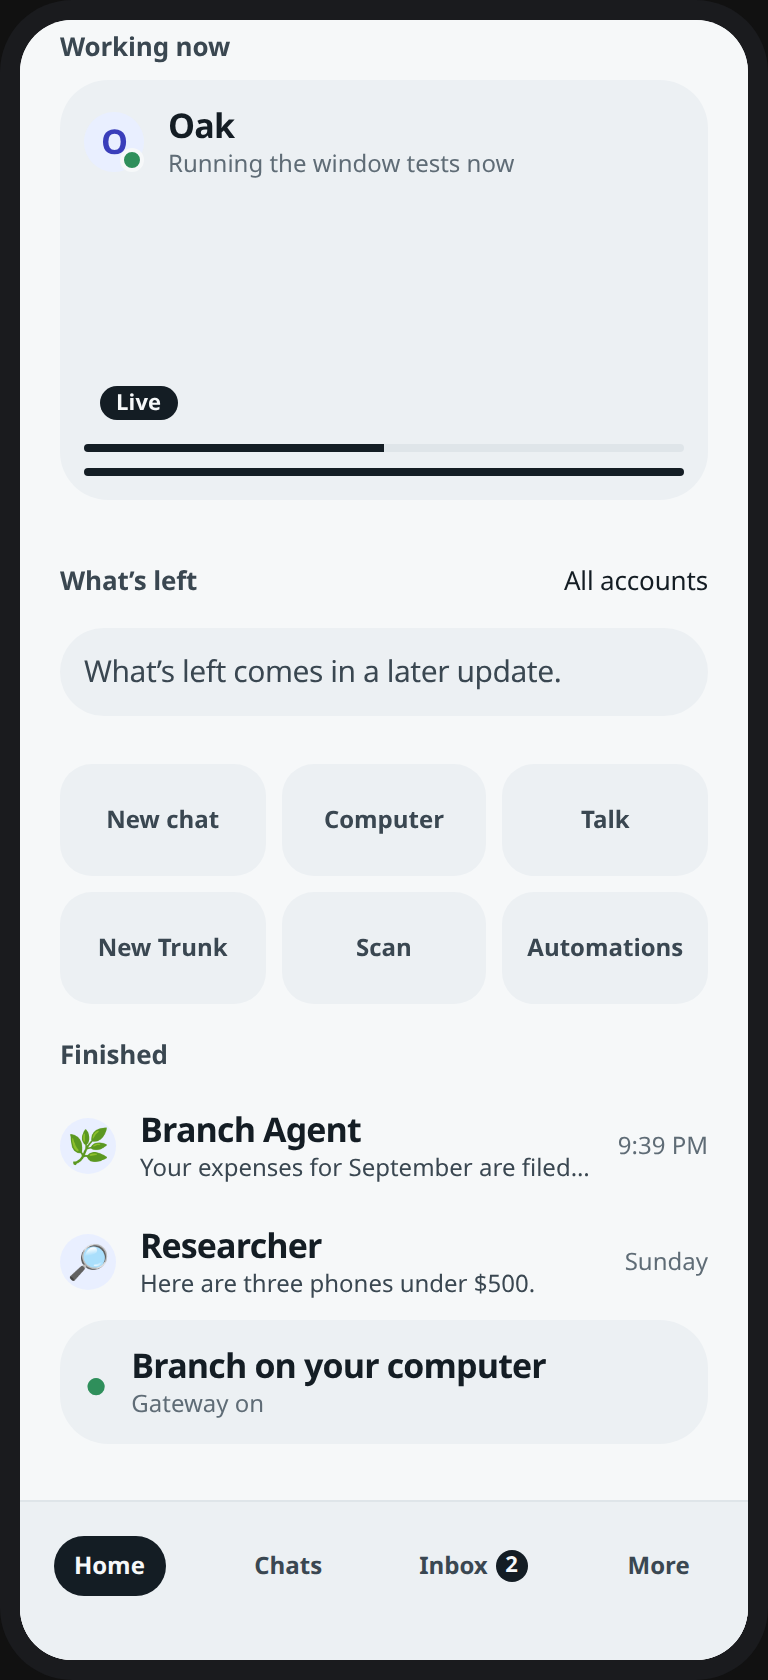
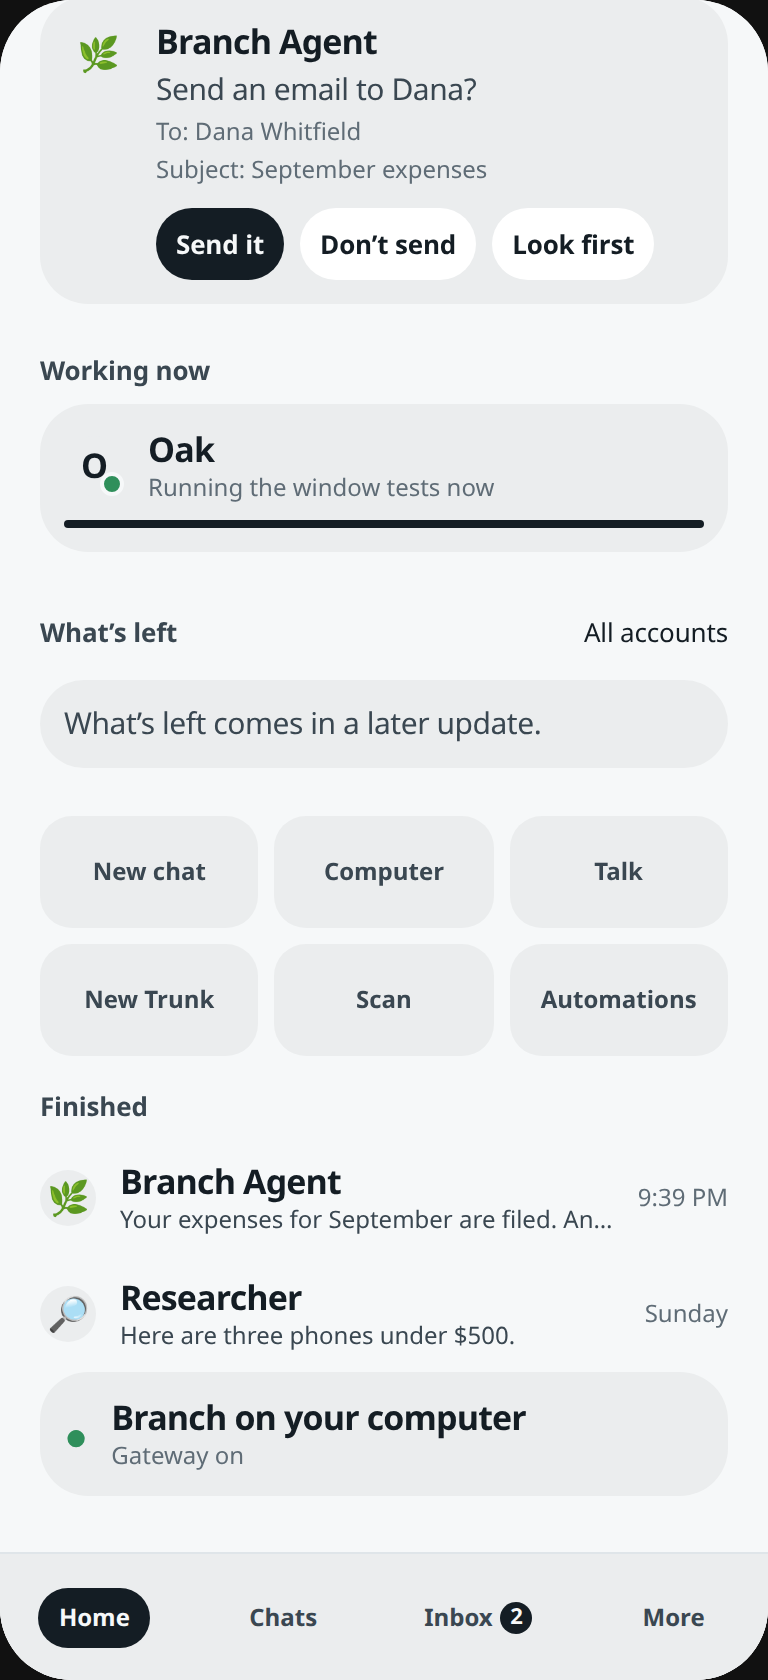
fix(mobile): show the command before Allow on Home
Gardener FIX at 87974d3d: Needs you cards show the masked command,
folder, computer and warnings before Allow; hide Allow when the
command is missing; surface Allow/Deny failures; drop the fake Live
box and 50% meter; New chat opens the main conversation.

diff --git a/mobile/src/screens/HomeScreen.tsx b/mobile/src/screens/HomeScreen.tsx
@@ -1,10 +1,11 @@
 import { useState, type ReactNode } from 'react';
-import { Pressable, ScrollView, View } from 'react-native';
+import { Platform, Pressable, ScrollView, View } from 'react-native';
 import { useSafeAreaInsets } from 'react-native-safe-area-context';
 import type { ApprovalDecision, ApprovalsSnapshot } from '../approvals/approvals';
 import type { ChatListSnapshot, ChatRow } from '../chats/chatList';
 import { chatTime } from '../chats/chatTime';
 import {
+  canAllowNeed,
   finishedNow,
   gatewayWord,
   greet,
@@ -22,6 +23,8 @@ import { useTheme } from '../theme/ThemeProvider';
 import { OfflineBanner } from '../ui/OfflineBanner';
 import { PlacesBar, type Place } from '../ui/PlacesBar';
 import { Avatar } from './ChatsScreen';
+
+const MONO = Platform.select({ ios: 'Menlo', default: 'monospace' });
 
 const QUICK_WORKING = [
   ['new-chat', 'New chat'],
@@ -101,8 +104,9 @@ function Chip({ title, onPress, kind = 'quiet', testID, disabled }: { title: str
 
 /**
  * The paired Home from preview r50: greeting, one-line summary, Needs you (Allow or Send, Deny,
- * Look first), Working now with a step bar and a live still, What’s left, quick actions, Finished,
- * and Branch on your computer. Unfinished destinations stay off Regular; at Advanced they say
+ * Look first — and the exact command, folder and warnings before Allow on a command-run), Working
+ * now with the last real line as the current step, What’s left, quick actions, Finished, and Branch
+ * on your computer. Unfinished destinations stay off Regular; at Advanced they say
  * "<label> comes in a later update."
  */
 export function HomeScreen({
@@ -202,8 +206,47 @@ export function HomeScreen({
                       {`${k}: ${v}`}
                     </ThemedText>
                   ))}
+                  {need.command ? (
+                    <View testID={`home-command-${need.id}`} style={{ marginTop: space.xs, backgroundColor: color.raise, borderRadius: 12, padding: space.sm }}>
+                      <ThemedText variant="caption1" selectable style={{ fontFamily: MONO }}>
+                        {need.command}
+                      </ThemedText>
+                    </View>
+                  ) : null}
+                  {need.folder ? (
+                    <ThemedText testID={`home-folder-${need.id}`} variant="caption1" tone="ink3">
+                      {`Folder: ${need.folder}`}
+                    </ThemedText>
+                  ) : null}
+                  {need.computer ? (
+                    <ThemedText testID={`home-computer-${need.id}`} variant="caption1" tone="ink3">
+                      {`Computer: ${need.computer}`}
+                    </ThemedText>
+                  ) : null}
+                  {need.warnings.map((warning) => (
+                    <ThemedText key={warning} testID={`home-warning-${need.id}`} variant="caption1" tone="warn">
+                      {`Noticed: ${warning}`}
+                    </ThemedText>
+                  ))}
+                  {need.mixed ? (
+                    <ThemedText testID={`home-mixed-${need.id}`} variant="caption1" tone="warn">
+                      This command mixes letters from different alphabets that can look the same. Read it carefully.
+                    </ThemedText>
+                  ) : null}
+                  {approvals.failed[need.id] ? (
+                    <ThemedText testID={`home-failed-${need.id}`} variant="caption1" tone="bad">
+                      {approvals.failed[need.id]}
+                    </ThemedText>
+                  ) : null}
+                  {!canAllowNeed(need) ? (
+                    <ThemedText testID={`home-no-command-${need.id}`} variant="caption1" tone="ink3">
+                      The command is not on this card. Look first to see what it would run.
+                    </ThemedText>
+                  ) : null}
                   <View style={{ flexDirection: 'row', flexWrap: 'nowrap', gap: space.sm, marginTop: space.sm }}>
-                    <Chip title={need.yes} kind="ink" testID={`home-allow-${need.id}`} disabled={Boolean(approvals.sending[need.id])} onPress={() => onAnswer(need.id, 'allow-once')} />
+                    {canAllowNeed(need) ? (
+                      <Chip title={need.yes} kind="ink" testID={`home-allow-${need.id}`} disabled={Boolean(approvals.sending[need.id])} onPress={() => onAnswer(need.id, 'allow-once')} />
+                    ) : null}
                     <Chip title={need.no} testID={`home-deny-${need.id}`} disabled={Boolean(approvals.sending[need.id])} onPress={() => onAnswer(need.id, 'deny')} />
                     <Chip title="Look first" testID={`home-look-${need.id}`} onPress={() => onLookFirst(need.id, need.sessionKey)} />
                   </View>
@@ -237,25 +280,6 @@ export function HomeScreen({
                     </View>
                   </View>
                 </Pressable>
-                <View
-                  testID={`home-still-${row.key}`}
-                  accessibilityLabel={`${row.title}: Live`}
-                  style={{ marginTop: space.sm, height: 120, borderRadius: 12, backgroundColor: color.fill, justifyContent: 'flex-end', padding: space.sm }}
-                >
-                  <View style={{ alignSelf: 'flex-start', backgroundColor: color.ink, borderRadius: 999, paddingHorizontal: space.sm, paddingVertical: 2 }}>
-                    <ThemedText variant="caption2" style={{ color: color.bg, fontWeight: '600' }}>
-                      Live
-                    </ThemedText>
-                  </View>
-                </View>
-                <View
-                  testID={`home-meter-${row.key}`}
-                  accessibilityRole="progressbar"
-                  accessibilityLabel={`${row.title}: working`}
-                  style={{ marginTop: space.xs, height: 4, borderRadius: 2, backgroundColor: color.line, overflow: 'hidden' }}
-                >
-                  <View style={{ width: '50%', height: 4, backgroundColor: color.ink }} />
-                </View>
                 <View testID={`home-steps-${row.key}`} style={{ flexDirection: 'row', gap: 4, marginTop: space.sm }}>
                   {step.steps.map((s, i) => (
                     <View key={`${row.key}-st-${i}`} style={{ flex: 1, height: 4, borderRadius: 2, backgroundColor: s === 'todo' ? color.line : color.ink }} />

diff --git a/mobile/src/screens/homeScreen.test.tsx b/mobile/src/screens/homeScreen.test.tsx
@@ -64,8 +64,9 @@ describe('home screen', () => {
     expect(screen.getByTestId('home-allow-plugin:mail-1')).toHaveTextContent('Send it');
     expect(screen.getByTestId('home-deny-plugin:mail-1')).toHaveTextContent('Don’t send');
     expect(screen.getByTestId('home-work-agent:oak:main')).toBeOnTheScreen();
-    expect(screen.getByTestId('home-still-agent:oak:main')).toHaveProp('accessibilityLabel', 'Oak: Live');
-    expect(screen.getByTestId('home-meter-agent:oak:main')).toBeOnTheScreen();
+    expect(screen.getByTestId('home-steps-agent:oak:main')).toBeOnTheScreen();
+    expect(screen.queryByTestId('home-still-agent:oak:main')).toBeNull();
+    expect(screen.queryByTestId('home-meter-agent:oak:main')).toBeNull();
     expect(screen.getByTestId('home-quick-new-chat')).toBeOnTheScreen();
     expect(screen.getByTestId('home-quick-computer')).toBeOnTheScreen();
     expect(screen.queryByTestId('home-quick-talk')).toBeNull();
@@ -86,6 +87,41 @@ describe('home screen', () => {
     expect(screen.getByTestId('home-needs-empty')).toHaveTextContent('Nothing needs you.');
     expect(screen.getByTestId('home-working-empty')).toHaveTextContent('Nothing is running.');
     expect(screen.queryByTestId('home-finished')).toBeNull();
+  });
+
+  it('shows the exact command, folder and warnings before Allow can run it', async () => {
+    await renderHome();
+    const card = within(screen.getByTestId('home-need-exec-1'));
+    expect(screen.getByTestId('home-command-exec-1')).toHaveTextContent('pnpm install --frozen-lockfile');
+    expect(screen.getByTestId('home-folder-exec-1')).toHaveTextContent('Folder: ~/Code/branch/window');
+    expect(screen.getByTestId('home-computer-exec-1')).toHaveTextContent('Computer: This computer');
+    expect(screen.getByTestId('home-warning-exec-1')).toHaveTextContent('Noticed: Downloads packages from the internet');
+    expect(card.getByTestId('home-allow-exec-1')).toBeOnTheScreen();
+  });
+
+  it('hides Allow when a command-run has no command to show', async () => {
+    const blank = readApproval({ id: 'exec-9', request: { command: '', agentId: 'oak' } }, 'exec')!;
+    await renderHome({
+      approvals: { pending: [blank], answered: [], trunks, loaded: true, error: null, sending: {}, failed: {} },
+    });
+    expect(screen.queryByTestId('home-command-exec-9')).toBeNull();
+    expect(screen.queryByTestId('home-allow-exec-9')).toBeNull();
+    expect(screen.getByTestId('home-no-command-exec-9')).toHaveTextContent(
+      'The command is not on this card. Look first to see what it would run.',
+    );
+    expect(screen.getByTestId('home-look-exec-9')).toBeOnTheScreen();
+  });
+
+  it('says why Allow or Deny failed', async () => {
+    await renderHome({
+      approvals: {
+        ...approvals,
+        failed: { 'exec-1': 'Your computer isn’t connected right now. Try again when it’s back.' },
+      },
+    });
+    expect(screen.getByTestId('home-failed-exec-1')).toHaveTextContent(
+      'Your computer isn’t connected right now. Try again when it’s back.',
+    );
   });
 
   it('answers Allow or Deny and opens Look first', async () => {
@@ -159,11 +195,12 @@ describe('home in the app', () => {
     unmount();
   });
 
-  it('New chat goes to Chats and Computer opens Computers, Inbox opens Approvals, More opens Settings', async () => {
+  it('New chat opens a conversation and Computer opens Computers, Inbox opens Approvals, More opens More', async () => {
     const { session, unmount } = await pairedApp();
     await fireEvent.press(screen.getByTestId('place-home'));
     await fireEvent.press(screen.getByTestId('home-quick-new-chat'));
-    expect(screen.getByTestId('chats-screen')).toBeOnTheScreen();
+    expect(screen.getByTestId('chat-screen')).toBeOnTheScreen();
+    await fireEvent.press(screen.getByTestId('chat-back'));
     await fireEvent.press(screen.getByTestId('place-home'));
     await fireEvent.press(screen.getByTestId('home-quick-computer'));
     expect(screen.getByTestId('computers-screen')).toBeOnTheScreen();
@@ -174,7 +211,7 @@ describe('home in the app', () => {
     await fireEvent.press(screen.getByTestId('approvals-back'));
     await fireEvent.press(screen.getByTestId('place-home'));
     await fireEvent.press(screen.getByTestId('place-more'));
-    expect(screen.getByTestId('settings-screen')).toBeOnTheScreen();
+    expect(screen.getByTestId('more-screen')).toBeOnTheScreen();
     session.dispose();
     unmount();
   });

diff --git a/mobile/src/home/homeModel.ts b/mobile/src/home/homeModel.ts
@@ -3,7 +3,7 @@
 // Unfinished destinations are named here so the screen can show "<label> comes in a later update."
 // only at Advanced and above (owner rule). Nothing here invents usage, spend, or a computer still.
 
-import { actionFields, actionWords, headline } from '../approvals/approvalWords';
+import { actionFields, actionWords, computerName, headline, maskCommand, mixedAlphabets, shortFolder } from '../approvals/approvalWords';
 import { trunkOf, type Approval, type Trunk } from '../approvals/approvals';
 import { filterRows, type ChatRow } from '../chats/chatList';
 
@@ -53,27 +53,50 @@ export function finishedNow(rows: ChatRow[], now: number): ChatRow[] {
 
 export type HomeNeed = {
   id: string;
+  kind: Approval['kind'];
   sessionKey?: string;
   trunk: Trunk;
   title: string;
   yes: string;
   no: string;
   fields: [string, string][];
+  /** Exec only: the exact command, secrets dotted out the way Approvals masks them. */
+  command?: string;
+  folder?: string;
+  computer?: string;
+  warnings: string[];
+  mixed?: boolean;
 };
+
+/** Allow is only for a request the card can actually show (the command, or a plugin's own words). */
+export function canAllowNeed(need: HomeNeed): boolean {
+  return need.kind !== 'exec' || Boolean(need.command?.trim());
+}
 
 /** Pending approvals as Home "Needs you" cards: oldest first, at most three (p50sHome). */
 export function homeNeeds(pending: Approval[], trunks: Record<string, Trunk>): HomeNeed[] {
   return pending.slice(0, 3).map((approval) => {
     const verbs = actionWords(approval);
     const { fields } = actionFields(approval.description ?? '');
+    const exec = approval.kind === 'exec';
     return {
       id: approval.id,
+      kind: approval.kind,
       ...(approval.sessionKey ? { sessionKey: approval.sessionKey } : {}),
       trunk: trunkOf(approval, trunks),
       title: headline(approval),
       yes: verbs.yes,
       no: verbs.no,
       fields: fields.slice(0, 2),
+      ...(exec
+        ? {
+            command: maskCommand(approval.command).replace(/\s+/g, ' ').trim() || undefined,
+            folder: approval.cwd ? shortFolder(approval.cwd) : 'Its workspace',
+            computer: computerName(approval.host),
+            mixed: mixedAlphabets(approval.command),
+          }
+        : {}),
+      warnings: approval.warnings,
     };
   });
 }

diff --git a/mobile/src/home/homeModel.test.ts b/mobile/src/home/homeModel.test.ts
@@ -3,6 +3,7 @@ import { chatRows, readAgents } from '../chats/chatList';
 import { fixtureApprovals } from '../testing/approvalFixtures';
 import { FIXTURE_NOW, fixtureAgents, fixtureSessions } from '../testing/chatFixtures';
 import {
+  canAllowNeed,
   finishedNow,
   gatewayWord,
   greet,
@@ -60,7 +61,18 @@ describe('home model', () => {
   it('builds Needs you cards with Allow or Send, Deny, and two field rows', () => {
     const needs = homeNeeds([exec, plugin], trunks);
     expect(needs).toHaveLength(2);
-    expect(needs[0]).toMatchObject({ id: 'exec-1', title: 'Run a command', yes: 'Allow', no: 'Deny', trunk: { name: 'Oak' } });
+    expect(needs[0]).toMatchObject({
+      id: 'exec-1',
+      title: 'Run a command',
+      yes: 'Allow',
+      no: 'Deny',
+      trunk: { name: 'Oak' },
+      command: 'pnpm install --frozen-lockfile',
+      folder: '~/Code/branch/window',
+      computer: 'This computer',
+      warnings: ['Downloads packages from the internet'],
+    });
+    expect(canAllowNeed(needs[0])).toBe(true);
     expect(needs[1]).toMatchObject({
       id: 'plugin:mail-1',
       title: 'Send an email to Dana?',
@@ -71,6 +83,14 @@ describe('home model', () => {
         ['Subject', 'September expenses'],
       ],
     });
+    expect(canAllowNeed(needs[1])).toBe(true);
+  });
+
+  it('does not allow a command-run until the exact command is on the card', () => {
+    const blank = readApproval({ id: 'exec-9', request: { command: '', agentId: 'oak' } }, 'exec')!;
+    const [need] = homeNeeds([blank], trunks);
+    expect(need.command).toBeUndefined();
+    expect(canAllowNeed(need)).toBe(false);
   });
 
   it('says the gateway is on or off from the live connection, never a machine name', () => {

diff --git a/mobile/App.tsx b/mobile/App.tsx
@@ -415,7 +415,12 @@ function Shell({
             approvals={approvals}
             online={state.online}
             accessLevel={showLevel}
-            onNewChat={() => setPairedRoute(CHATS)}
+            onNewChat={() => {
+              const shown = filterRows(chatList.rows, 'all', Date.now());
+              const main = shown.find((row) => !row.room && row.key.endsWith(':main')) ?? shown.find((row) => !row.room);
+              if (main) setPairedRoute({ name: 'chat', row: main });
+              else setPairedRoute(CHATS);
+            }}
             onComputer={() => setPairedRoute({ name: 'computers' })}
             onAnswer={(id, decision) => void inbox.answer(id, decision)}
             onLookFirst={(_id, sessionKey) => {
